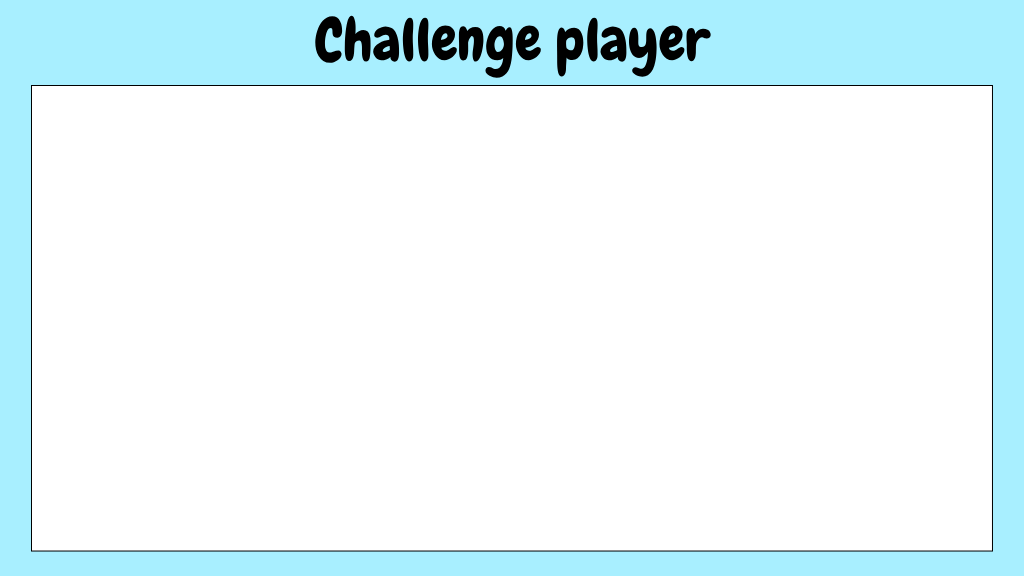
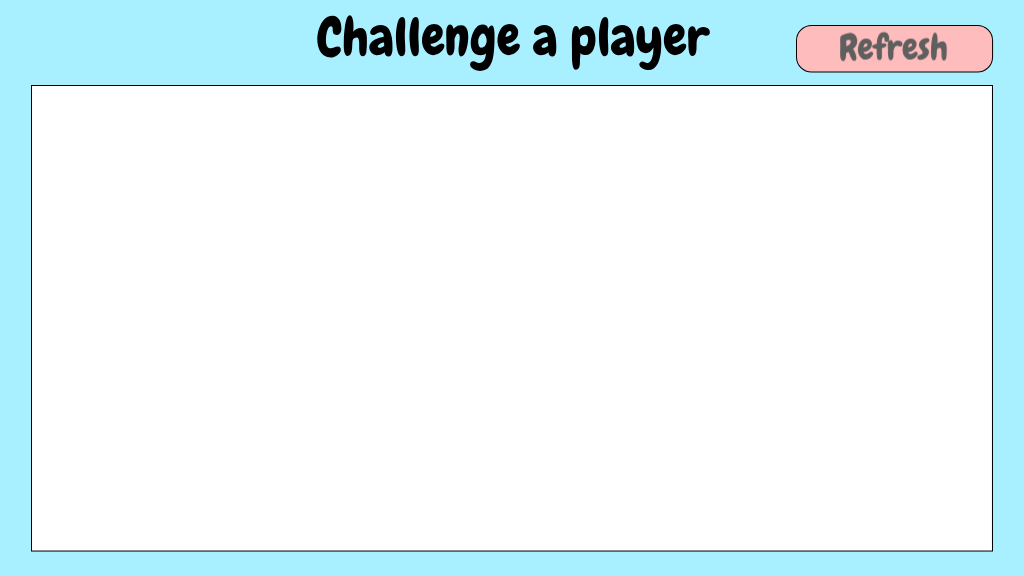
fix bug at client

Changed region(s): [[0.2812, 0.0312, 0.6875, 0.1562], [0.75, 0.0312, 0.9688, 0.125]]

diff --git a/client/Challenge.c b/client/Challenge.c
@@ -7,6 +7,10 @@
 
 void scanChallenge(int *x, int *y) {
     switch (event.type) {
+        case SDL_MOUSEMOTION:
+            SDL_GetMouseState(x, y);
+            click = NONE_CLICK;
+            break;
         case SDL_MOUSEBUTTONDOWN:
             SDL_GetMouseState(x, y);
             switch (event.button.button) {
@@ -23,15 +27,23 @@ void scanChallenge(int *x, int *y) {
 }
 
 //// CHALLENGE
-SDL_Texture *textureChallengeBG;
+SDL_Texture *challengeBgTexture;
 SDL_Texture *boxTexture;
+SDL_Texture *refreshBtnTexture;
 SDL_Texture *nameTexture[MAX_NUM_PLAYER];
+
+int HOVER_REFRESH_BUTTON = -1;
+int CLICK_REFRESH_BUTTON = -2;
 
 int handleMouseChallenge(int x, int y){
     for (int i = 0; i < games_count; i++) {
         if(x < ( 40 + 240 * ((i+1) % 4) ) && x > ( 40 + 240 * (i % 4) ) &&
                 y < 95 + 150 * (int) ((i / 4) + 1) && y > 95 + 150 * (int) (i / 4))
-            return i + 1;
+            if(click == LEFT_CLICK) return i + 1;
+        if(x > 800 && x < 1000 && y > 28 && y < 76){
+            if(click == NONE_CLICK) return HOVER_REFRESH_BUTTON;
+            else if(click == LEFT_CLICK) return CLICK_REFRESH_BUTTON;
+        }
     }
     return 0;
 };
@@ -40,11 +52,13 @@ void createNewName() {
     for(int i = 0 ; i < games_count ; i++) {
         SDL_Surface *surfaceName = TTF_RenderText_Blended_Wrapped(boldFont, games[i].name, textColor, 175);
         if (surfaceName != NULL) {
+            if(nameTexture[i] != NULL) SDL_DestroyTexture(nameTexture[i]);
             //Create texture from surface pixels
             nameTexture[i] = SDL_CreateTextureFromSurface(renderer, surfaceName);
             if (nameTexture == NULL) {
                 printf("Unable to create texture from rendered text! SDL Error: %s\n", SDL_GetError());
             }
+            SDL_ShowSimpleMessageBox(, "Error !","", NULL);
             //Get rid of old surface
             SDL_FreeSurface(surfaceName);
         } else {
@@ -60,7 +74,7 @@ void loadChallengeTexture() {
         printf("IMG_Load Error: Error load assets/challenge_bg.png");
         return;
     }
-    textureChallengeBG = SDL_CreateTextureFromSurface(renderer, bgChallengeSurface);
+    challengeBgTexture = SDL_CreateTextureFromSurface(renderer, bgChallengeSurface);
     SDL_FreeSurface(bgChallengeSurface);
 
     // create box texture
@@ -72,18 +86,30 @@ void loadChallengeTexture() {
     boxTexture = SDL_CreateTextureFromSurface(renderer, boxSurface);
     SDL_FreeSurface(boxSurface);
 
+    // create refresh button texture
+    SDL_Surface *refreshBtnSurface = IMG_Load("assets/challenge/refresh_btn_pr.png");
+    if (refreshBtnSurface == NULL) {
+        printf("IMG_Load Error: Error load assets/challenge/refresh_btn_pr.png");
+        return;
+    }
+    refreshBtnTexture = SDL_CreateTextureFromSurface(renderer, refreshBtnSurface);
+    SDL_FreeSurface(refreshBtnSurface);
+
     createNewName();
 };
 
 int renderListHost(int x, int y) {
-    if(handleMouseChallenge(x,y) != 0 ){ // 1 - 12 if click, 0 if nothing happen
+    int state = handleMouseChallenge(x,y);
+    if( state > 0 ){ // 1 - 12 if click, 0 if nothing happen
         return 1;
     }
+
+    createNewName();
 
     SDL_Rect bgRect = {0, 0, WINDOW_WIDTH, WINDOW_HEIGHT};
 
     SDL_RenderClear(renderer);
-    SDL_RenderCopy(renderer, textureChallengeBG, NULL, &bgRect);
+    SDL_RenderCopy(renderer, challengeBgTexture, NULL, &bgRect);
 
     for (int i = 0; i < MAX_NUM_PLAYER; i++) {
         peopleRect[i].x = 40 + 240 * (i % 4);
@@ -91,18 +117,23 @@ int renderListHost(int x, int y) {
         peopleRect[i].w = 225;
         peopleRect[i].h = 125;
         SDL_RenderCopy(renderer, boxTexture, NULL, &peopleRect[i]);
-        if (i < games_count && strcmp(games[i].name,inputText) != 0) {
+        if (i < games_count) {
             render(nameTexture[i], 40 + 240 * (i % 4) + 25, 95 + 150 * (int) (i / 4) +25
                     , NULL, 0, NULL, SDL_FLIP_NONE);
         }
     }
 
-    return 0;
+    if( state < 0 ){
+        SDL_Rect rectRefreshBtn = {795, 25, 197, 48};
+        SDL_RenderCopy(renderer, refreshBtnTexture, NULL, &rectRefreshBtn);
+    }
+
+    return state;
 }
 
 void closeChallenge() {
-    SDL_DestroyTexture(textureChallengeBG);
-    SDL_DestroyTexture(boxTexture);
+    if(challengeBgTexture != NULL) SDL_DestroyTexture(challengeBgTexture);
+    if(boxTexture != NULL) SDL_DestroyTexture(boxTexture);
     for(int i = 0 ; i < games_count ; i++)
         SDL_DestroyTexture(nameTexture[i]);
 }

diff --git a/client/Editor.c b/client/Editor.c
@@ -2,10 +2,143 @@
 #include <SDL.h>
 #include "Constants.h"
 #include "Draw.h"
-#include "handlemouseEditor.h"
 #include "States.h"
+#include "ship.h"
+#include "submarine.h"
+#include "Cruiser.h"
+#include "specialbox.h"
 
 int editState = 0;
+
+void handleMouseEditor(int x, int y, int *states, int *tableStatus) {
+    if ((*states) == 1 && getSquare(x, y) >= 0) {
+        ChangeShipMovingState1(getSquare(x, y), tableStatus);
+        return;
+    }
+
+    if ((*states) == 10 && getSquare(x, y) >= 0) {
+        if (NUMBER_OF_SHIP[1][0])
+            ChangeShipClickState10(getSquare(x, y), tableStatus);
+        (*states) = 0;
+        return;
+    }
+
+    if ((*states) == 11 && getSquare(x, y) >= 0) {
+        ChangeShipMovingState11(getSquare(x, y), tableStatus);
+        return;
+    }
+
+    if ((*states) == 110 && getSquare(x, y) >= 0) {
+        if (NUMBER_OF_SHIP[1][0])
+            ChangeShipClickState110(getSquare(x, y), tableStatus);
+        (*states) = 0;
+        return;
+    }
+    if ((*states) == 2 && getSquare(x, y) >= 0) {
+        ChangeSubmarineMovingState2(getSquare(x, y), tableStatus);
+        return;
+    }
+    if ((*states) == 20 && getSquare(x, y) >= 0) {
+        if (NUMBER_OF_SHIP[1][1] > 0)
+            ChangeSubmarineClickState20(getSquare(x, y), tableStatus);
+        (*states) = 0;
+
+        return;
+    }
+    if ((*states) == 22 && getSquare(x, y) >= 0) {
+        ChangeSubmarineMovingState22(getSquare(x, y), tableStatus);
+        return;
+    }
+    if ((*states) == 220 && getSquare(x, y) >= 0) {
+
+        if (NUMBER_OF_SHIP[1][1] > 0)
+            ChangeSubmarineClickState220(getSquare(x, y), tableStatus);
+        (*states) = 0;
+        return;
+    }
+
+    if ((*states) == 3 && getSquare(x, y) >= 0) {
+        ChangeCruiserMovingState3(getSquare(x, y), tableStatus);
+        return;
+    }
+    if ((*states) == 30 && getSquare(x, y) >= 0) {
+        if (NUMBER_OF_SHIP[1][2] > 0)
+            ChangeCruiserClickState30(getSquare(x, y), tableStatus);
+        (*states) = 0;
+
+        return;
+    }
+    if ((*states) == 33 && getSquare(x, y) >= 0) {
+        ChangeCruiserMovingState33(getSquare(x, y), tableStatus);
+        return;
+    }
+    if ((*states) == 330 && getSquare(x, y) >= 0) {
+
+        if (NUMBER_OF_SHIP[1][2] > 0)
+            ChangeCruiserClickState330(getSquare(x, y), tableStatus);
+        (*states) = 0;
+
+
+        return;
+    }
+    if ((*states) == 4 && getSquare(x, y) >= 0) {
+        ChangeSpecialboxMovingState4(getSquare(x, y), tableStatus);
+
+        return;
+    }
+    if ((*states) == 40 && getSquare(x, y) >= 0) {
+        if (NUMBER_OF_SHIP[1][3] > 0)
+            ChangeSpecialboxClickState40(getSquare(x, y), tableStatus);
+
+        (*states) = 0;
+        return;
+    }
+    if ((*states) == -444 && getSquare(x, y) >= 0) {
+        if (NUMBER_OF_SHIP[1][3] < NUMBER_OF_SHIP[0][3]) {
+            if ((RemoveSpecialboxClickState444(getSquare(x, y), tableStatus)) > 0)
+                NUMBER_OF_SHIP[1][3]++;
+        }
+        (*states) = 0;
+    }
+
+
+    for (int i = 0; i < HORIZONTAL_SQUARE * VERTICAL_SQUARE; i++) {
+        if (tableStatus[i] == 1 || tableStatus[i] == 2 || tableStatus[i] == 3 || tableStatus[i] == 4) {
+            tableStatus[i] = 0;
+        }
+    }
+
+
+    if ((*states) == -11) {
+        for (int i = 0; i < HORIZONTAL_SQUARE * VERTICAL_SQUARE; i++) {
+            if (tableStatus[i] == 10 || tableStatus[i] == 110) {
+                tableStatus[i] = 0;
+            }
+        }
+    }
+    if ((*states) == -22) {
+        for (int i = 0; i < HORIZONTAL_SQUARE * VERTICAL_SQUARE; i++) {
+            if (tableStatus[i] == 20 || tableStatus[i] == 220) {
+                tableStatus[i] = 0;
+            }
+        }
+    }
+    if ((*states) == -33) {
+        for (int i = 0; i < HORIZONTAL_SQUARE * VERTICAL_SQUARE; i++) {
+            if (tableStatus[i] == 30 || tableStatus[i] == 330) {
+                tableStatus[i] = 0;
+            }
+        }
+    }
+    if ((*states) == -44) {
+        for (int i = 0; i < HORIZONTAL_SQUARE * VERTICAL_SQUARE; i++) {
+            if (tableStatus[i] == 40) {
+                tableStatus[i] = 0;
+            }
+        }
+    }
+    // return getEditorState(x,y);
+}
 
 void scanEditor(int *x, int *y) {
     switch (event.type) {

diff --git a/client/States.c b/client/States.c
@@ -14,10 +14,13 @@ int getSquare(int x, int y) {
 
 int getEditorState(int x, int y) {
     if (891 <= x && x < 1015 && 40 <= y && y <= 92)
-        return 1; // Selecting ship 1
-    if (891 <= x && x < 1015 && 108 <= y && y <= 162) return 2; // Selecting ship 2
-    if (891 <= x && x < 1015 && 178 <= y && y <= 231) return 3; // Selecting ship 3
-    if (890 <= x && x < 940 && 384 <= y && y < 435) return 4;// Selecting headquarter
+        if (NUMBER_OF_SHIP[1][0] != 0) return 1; // Selecting ship 1
+    if (891 <= x && x < 1015 && 108 <= y && y <= 162)
+        if (NUMBER_OF_SHIP[1][1] != 0) return 2; // Selecting ship 2
+    if (891 <= x && x < 1015 && 178 <= y && y <= 231)
+        if (NUMBER_OF_SHIP[1][2] != 0) return 3; // Selecting ship 3
+    if (890 <= x && x < 940 && 384 <= y && y < 435)
+        if (NUMBER_OF_SHIP[1][3] != 0) return 4;// Selecting headquarter
     if (906 <= x && x < 928 && 307 <= y && y <= 334) return -1; // Remove ship 1
     if (941 <= x && x < 963 && 307 <= y && y <= 334) return -2; // Remove ship 2
     if (976 <= x && x < 998 && 307 <= y && y <= 334) return -3; // Remove ship 3
@@ -34,7 +37,6 @@ void changeEditorStates(int x, int y) {
     }
     if (editState == 1 && click == LEFT_CLICK && getSquare(x, y) >= 0) {
         editState = 10;
-
     } else if (editState == 1 && click == RIGHT_CLICK && getSquare(x, y) >= 0) {
         editState = 11;
     } else if (editState == 11 && click == RIGHT_CLICK && getSquare(x, y) >= 0) {
@@ -114,7 +116,7 @@ void changeBattleStates(int x, int y) {
                 // left click inside battle field
                 if (currentBattleState == PLAYER_TURN)
                     currentBattleState = PLAYER_HIT;
-                else if(currentBattleState == OPPONENT_TURN)
+                else if (currentBattleState == OPPONENT_TURN)
                     currentBattleState = PLAYER_TURN;
             }
             break;

diff --git a/client/Login.c b/client/Login.c
@@ -5,9 +5,9 @@
 #include "Constants.h"
 #include "Utils.h"
 
-SDL_Texture* loginBgTexture;
+SDL_Texture *loginBgTexture;
 
-void loadLoginTexture(){
+void loadLoginTexture() {
     // create bg texture
     SDL_Surface *bgSurface = IMG_Load("assets/login_bg.png");
     if (bgSurface == NULL) {
@@ -44,8 +44,12 @@ int receiveUserName(bool *rendered) {
             else if (event.key.keysym.sym == SDLK_v && SDL_GetModState() & KMOD_CTRL) {
                 inputText = SDL_GetClipboardText();
                 renderText = true;
-            } else if (event.key.keysym.sym == SDLK_RETURN && strlen(inputText) >= 6) {
-                return 1;
+            } else if (event.key.keysym.sym == SDLK_RETURN) {
+                if (strlen(inputText) >= 6) {
+                    return 1;
+                } else {
+                    SDL_ShowSimpleMessageBox(SDL_MESSAGEBOX_COLOR_BUTTON_SELECTED, "Error !", "Your name must be longer than 6 characters.", NULL);
+                }
             }
         }
             //Special text input event

diff --git a/client/main.c b/client/main.c
@@ -184,7 +184,8 @@ int main(int argc, char **argv) {
         }
         if (gameState == CHALLENGE_STATE) {
             scanChallenge(&x, &y);
-            if (renderListHost(x,y)) {
+            int state = renderListHost(x,y);
+            if (state == 1) {
                 // continue to editor state
 
                 gameState = EDITOR_STATE;
@@ -192,6 +193,8 @@ int main(int argc, char **argv) {
                 loadEditorTexture();
                 rendered = false;
                 click = NONE_CLICK;
+            }else if( state == -2 ){
+                games_count = get_games(sfd_s, games);
             };
         }
         if (gameState == EDITOR_STATE) {

diff --git a/client/network.h b/client/network.h
@@ -92,7 +92,7 @@
  * \brief	Checks that a system call does not fail
  */
 # define check(sts,msg) if((sts) == -1) { \
-	perror(msg); exit(EXIT_FAILURE);}
+	perror(msg);  SDL_ShowSimpleMessageBox(SDL_MESSAGEBOX_ERROR, "Error !",msg, NULL); exit(EXIT_FAILURE);}
 
 // Structures
 

diff --git a/client/Battle.c b/client/Battle.c
@@ -3,7 +3,6 @@
 #include <SDL_image.h>
 #include "Constants.h"
 #include "Draw.h"
-#include "handlemouseEditor.h"
 #include "States.h"
 
 enum BATTLESTATE currentBattleState = PLAYER_TURN;
